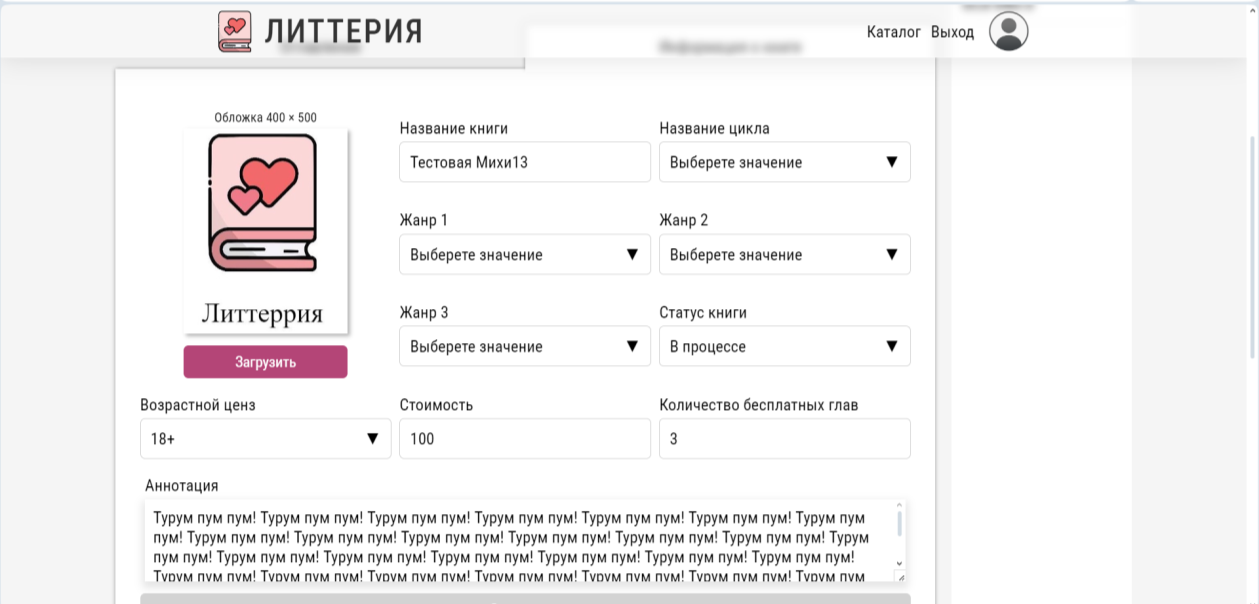
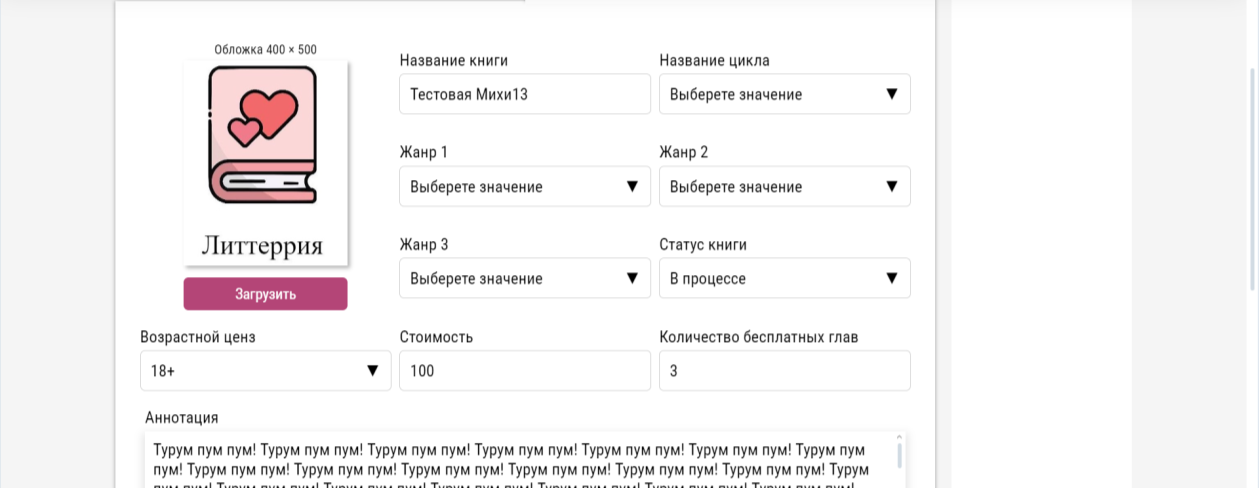
latest fixes

diff --git a/src/app/App.tsx b/src/app/App.tsx
@@ -1,4 +1,4 @@
-import { useState, useEffect } from "react";
+import { useState, useEffect, useMemo } from "react";
 import { Bot, Layers, Server, Monitor, Globe, AppWindow, ArrowRight, Menu, X, ChevronRight, ChevronLeft, ExternalLink, Clock, Users, CheckCircle2, Loader2 } from "lucide-react";
 import { Seo } from "./Seo";
 import { submitContactForm } from "../lib/submitContact";
@@ -13,7 +13,6 @@ import parser03 from "../assets/parser-03-monitoring.png";
 import parser04 from "../assets/parser-04-filter.png";
 import parser05 from "../assets/parser-05-formatting.png";
 import parser06 from "../assets/parser-06-sites.png";
-import parser07 from "../assets/parser-07-telegram.png";
 import litteria01 from "../assets/litteria-01-home.jpeg";
 import litteria02 from "../assets/litteria-02-book.png";
 import litteria03 from "../assets/litteria-03-auth-modal.jpeg";
@@ -23,11 +22,60 @@ import litteria06 from "../assets/litteria-06-reader.png";
 import litteria07 from "../assets/litteria-07-filters.png";
 import litteria08 from "../assets/litteria-08-search.png";
 import litteria09 from "../assets/litteria-09-my-books.png";
-import litteria10 from "../assets/litteria-10-edit.png";
-import litteria11 from "../assets/litteria-11-book-info.png";
-import litteria12 from "../assets/litteria-12-editor.jpeg";
 
 type Lang = "ru" | "en";
+
+const slideAspectCache = new Map<string, number>();
+
+function measureSlideAspect(src: string) {
+  if (slideAspectCache.has(src)) return;
+  const img = new Image();
+  img.onload = () => slideAspectCache.set(src, img.naturalWidth / img.naturalHeight);
+  img.onerror = () => slideAspectCache.set(src, 16 / 10);
+  img.src = src;
+}
+
+function minCachedAspect(slides: { src: string }[], fallback = 16 / 10) {
+  const ratios = slides.map((s) => slideAspectCache.get(s.src)).filter((r): r is number => r != null);
+  return ratios.length ? Math.min(...ratios) : fallback;
+}
+
+function useGalleryAspect(slides: { src: string }[]) {
+  const srcKey = useMemo(() => slides.map((s) => s.src).join("|"), [slides]);
+  const [, setVersion] = useState(0);
+
+  useEffect(() => {
+    const pending = slides.filter((s) => !slideAspectCache.has(s.src));
+    if (pending.length === 0) return;
+
+    let cancelled = false;
+    let left = pending.length;
+
+    pending.forEach(({ src }) => {
+      const img = new Image();
+      const done = () => {
+        if (cancelled) return;
+        left -= 1;
+        if (left === 0) setVersion((v) => v + 1);
+      };
+      img.onload = () => {
+        slideAspectCache.set(src, img.naturalWidth / img.naturalHeight);
+        done();
+      };
+      img.onerror = () => {
+        slideAspectCache.set(src, 16 / 10);
+        done();
+      };
+      img.src = src;
+    });
+
+    return () => {
+      cancelled = true;
+    };
+  }, [srcKey, slides]);
+
+  return minCachedAspect(slides);
+}
 
 const TELEGRAM_URL = "https://t.me/devs_for_hire";
 const TELEGRAM_HANDLE = "@devs_for_hire";
@@ -63,9 +111,6 @@ const litteriaGallery: Record<Lang, { src: string; label: string }[]> = {
     { src: litteria07, label: "Фильтры" },
     { src: litteria08, label: "Результаты поиска" },
     { src: litteria09, label: "Книги автора" },
-    { src: litteria10, label: "Редактирование" },
-    { src: litteria11, label: "Информация о книге" },
-    { src: litteria12, label: "Редактор текста" },
   ],
   en: [
     { src: litteria01, label: "Home" },
@@ -77,9 +122,6 @@ const litteriaGallery: Record<Lang, { src: string; label: string }[]> = {
     { src: litteria07, label: "Filters" },
     { src: litteria08, label: "Search results" },
     { src: litteria09, label: "Author's books" },
-    { src: litteria10, label: "Editing" },
-    { src: litteria11, label: "Book info" },
-    { src: litteria12, label: "Text editor" },
   ],
 };
 
@@ -91,7 +133,6 @@ const newsParserGallery: Record<Lang, { src: string; label: string }[]> = {
     { src: parser04, label: "Фильтры" },
     { src: parser05, label: "Форматирование" },
     { src: parser06, label: "Подключённые сайты" },
-    { src: parser07, label: "Telegram-уведомления" },
   ],
   en: [
     { src: parser01, label: "Site settings" },
@@ -100,7 +141,6 @@ const newsParserGallery: Record<Lang, { src: string; label: string }[]> = {
     { src: parser04, label: "Filters" },
     { src: parser05, label: "Formatting" },
     { src: parser06, label: "Connected sites" },
-    { src: parser07, label: "Telegram notifications" },
   ],
 };
 
@@ -320,12 +360,14 @@ function BrowserPreview({
   alt,
   children,
   featured,
+  contentAspectRatio = 16 / 10,
 }: {
   src?: string;
   url?: string;
   alt: string;
   children?: React.ReactNode;
   featured?: boolean;
+  contentAspectRatio?: number;
 }) {
   return (
     <div
@@ -350,9 +392,14 @@ function BrowserPreview({
           </span>
         </div>
       </div>
-      <div className="bg-[#f4f4f5] relative w-full" style={{ aspectRatio: "16 / 10" }}>
+      <div
+        className="bg-[#f4f4f5] relative w-full"
+        style={{ aspectRatio: `${contentAspectRatio} / 1` }}
+      >
         {children ?? (
-          <img src={src!} alt={alt} className="absolute inset-0 w-full h-full object-cover object-top" />
+          <div className="absolute inset-0 flex items-center justify-center">
+            <img src={src!} alt={alt} className="block max-w-full max-h-full w-auto h-auto" draggable={false} />
+          </div>
         )}
       </div>
     </div>
@@ -447,18 +494,13 @@ function ScreenshotCarousel({
   const [index, setIndex] = useState(0);
   const slideCount = slides.length + (preview ? 1 : 0);
   const hasMultiple = slideCount > 1;
+  const contentAspectRatio = useGalleryAspect(slides);
 
   const currentLabel = preview && index === 0 ? (previewLabel ?? "Overview") : slides[index - (preview ? 1 : 0)]?.label ?? "";
 
   useEffect(() => {
-    slides.forEach(({ src }) => {
-      const img = new Image();
-      img.src = src;
-    });
-    if (preview?.thumb) {
-      const img = new Image();
-      img.src = preview.thumb;
-    }
+    slides.forEach(({ src }) => measureSlideAspect(src));
+    if (preview?.thumb) measureSlideAspect(preview.thumb);
   }, [slides, preview]);
 
   function goPrev(e: React.MouseEvent) {
@@ -481,7 +523,7 @@ function ScreenshotCarousel({
 
   return (
     <div>
-      <BrowserPreview url={url} alt={alt} featured={featured}>
+      <BrowserPreview url={url} alt={alt} featured={featured} contentAspectRatio={contentAspectRatio}>
         {preview && (
           <div
             className={`absolute inset-0 transition-opacity duration-200 ${index === 0 ? "opacity-100" : "opacity-0 pointer-events-none"}`}
@@ -497,16 +539,22 @@ function ScreenshotCarousel({
         )}
         {slides.map((s, i) => {
           const slideIndex = i + (preview ? 1 : 0);
+          const visible = slideIndex === index;
           return (
-            <img
+            <div
               key={s.src}
-              src={s.src}
-              alt={slideIndex === index ? `${alt}: ${s.label}` : ""}
-              aria-hidden={slideIndex !== index}
-              className={`absolute inset-0 w-full h-full object-cover object-top transition-opacity duration-200 ${slideIndex === index ? "opacity-100" : "opacity-0"}`}
-              loading="eager"
-              decoding="async"
-            />
+              className={`absolute inset-0 flex items-center justify-center transition-opacity duration-200 ${visible ? "opacity-100" : "opacity-0 pointer-events-none"}`}
+              aria-hidden={!visible}
+            >
+              <img
+                src={s.src}
+                alt={visible ? `${alt}: ${s.label}` : ""}
+                className="block max-w-full max-h-full w-auto h-auto"
+                loading="eager"
+                decoding="async"
+                draggable={false}
+              />
+            </div>
           );
         })}
       </BrowserPreview>
@@ -553,17 +601,50 @@ function ScreenshotCarousel({
   );
 }
 
+function ModalHeroImage({ work, typeLabel }: { work: WorkItem; typeLabel: string }) {
+  const slides = work.gallery ?? [{ src: work.img, label: work.title }];
+  const contentAspectRatio = useGalleryAspect(slides);
+
+  return (
+    <div
+      className="relative bg-[#f4f4f5] flex items-center justify-center"
+      style={{ aspectRatio: `${contentAspectRatio} / 1` }}
+    >
+      <img
+        src={work.img}
+        alt={work.title}
+        className="block max-w-full max-h-full w-auto h-auto opacity-90"
+        draggable={false}
+      />
+      <div className="absolute inset-0 bg-gradient-to-t from-background via-transparent to-transparent pointer-events-none" />
+      <span
+        className="absolute bottom-4 left-6 text-primary"
+        style={{ fontFamily: "'DM Mono', monospace", fontSize: "0.7rem", letterSpacing: "0.1em" }}
+      >
+        {typeLabel}
+      </span>
+    </div>
+  );
+}
+
 function WorkCard({ work, typeLabel, onClick }: { work: WorkItem; typeLabel: string; onClick: () => void }) {
+  const slides = work.gallery ?? [{ src: work.img, label: work.title }];
+  const contentAspectRatio = useGalleryAspect(slides);
+
   return (
     <button
       onClick={onClick}
       className="bg-background group overflow-hidden flex flex-col text-left cursor-pointer border border-border hover:border-muted-foreground/40 transition-colors"
     >
-      <div className="relative overflow-hidden bg-muted" style={{ aspectRatio: "16/10" }}>
+      <div
+        className="relative bg-[#f4f4f5] flex items-center justify-center"
+        style={{ aspectRatio: `${contentAspectRatio} / 1` }}
+      >
         <img
           src={work.img}
           alt={work.title}
-          className="w-full h-full object-cover opacity-80 group-hover:opacity-100 group-hover:scale-[1.02] transition-all duration-500"
+          className="block max-w-full max-h-full w-auto h-auto opacity-90 group-hover:opacity-100 transition-opacity duration-500"
+          draggable={false}
         />
         <div className="absolute inset-0 bg-gradient-to-t from-background/70 via-transparent to-transparent" />
         <span
@@ -676,7 +757,7 @@ function FeaturedWorkCard({
             </span>
           </div>
           <div
-            className={`order-1 group-hover:scale-[1.015] transition-transform duration-500 ${reversed ? "lg:order-1" : "lg:order-2"}`}
+            className={`order-1 ${reversed ? "lg:order-1" : "lg:order-2"}`}
             onClick={(e) => e.stopPropagation()}
           >
             <ScreenshotCarousel
@@ -881,10 +962,7 @@ export default function App() {
   useEffect(() => {
     works.forEach((work) => {
       const sources = work.gallery?.map((g) => g.src) ?? [work.img];
-      sources.forEach((src) => {
-        const img = new Image();
-        img.src = src;
-      });
+      sources.forEach((src) => measureSlideAspect(src));
     });
   }, [works]);
 
@@ -1348,20 +1426,7 @@ export default function App() {
                       />
                     </div>
                   ) : (
-                    <div className="relative bg-muted" style={{ aspectRatio: "16/7" }}>
-                      <img
-                        src={selectedWork.img}
-                        alt={selectedWork.title}
-                        className="w-full h-full object-cover opacity-80"
-                      />
-                      <div className="absolute inset-0 bg-gradient-to-t from-background via-transparent to-transparent" />
-                      <span
-                        className="absolute bottom-4 left-6 text-primary"
-                        style={{ fontFamily: "'DM Mono', monospace", fontSize: "0.7rem", letterSpacing: "0.1em" }}
-                      >
-                        {workTypeLabel(lang, selectedWork.type)}
-                      </span>
-                    </div>
+                    <ModalHeroImage work={selectedWork} typeLabel={workTypeLabel(lang, selectedWork.type)} />
                   )}
                   <Dialog.Close
                     className="absolute top-4 right-4 z-10 w-9 h-9 border border-border bg-background/80 flex items-center justify-center text-muted-foreground hover:text-foreground hover:border-primary transition-colors"

diff --git a/index.html b/index.html
@@ -3,7 +3,7 @@
   <head>
     <meta charset="UTF-8" />
     <link rel="icon" href="/favicon.ico" sizes="48x48" />
-    <link rel="icon" type="image/svg+xml" href="/images/Logo-blue.svg" />
+    <link rel="icon" type="image/svg+xml" href="/favicon.svg" />
     <link rel="icon" type="image/png" href="/favicon.png" sizes="512x512" />
     <link rel="shortcut icon" href="/favicon.ico" />
     <link rel="apple-touch-icon" href="/favicon.png" />

diff --git a/src/app/Seo.tsx b/src/app/Seo.tsx
@@ -62,7 +62,7 @@ export function Seo({ lang }: { lang: Lang }) {
     upsertMeta("name", "robots", "index, follow");
     upsertLink("canonical", canonical);
     upsertLink("icon", siteUrl ? `${siteUrl}/favicon.ico` : "/favicon.ico", { sizes: "48x48" });
-    upsertLink("icon", siteUrl ? `${siteUrl}/images/Logo-blue.svg` : "/images/Logo-blue.svg", {
+    upsertLink("icon", siteUrl ? `${siteUrl}/favicon.svg` : "/favicon.svg", {
       type: "image/svg+xml",
     });
     upsertLink("icon", faviconUrl, { type: "image/png", sizes: "512x512" });